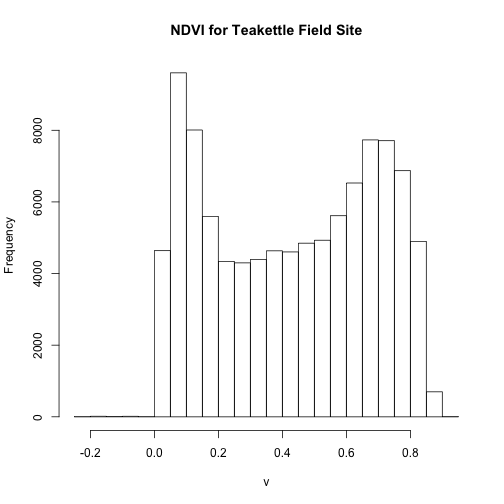
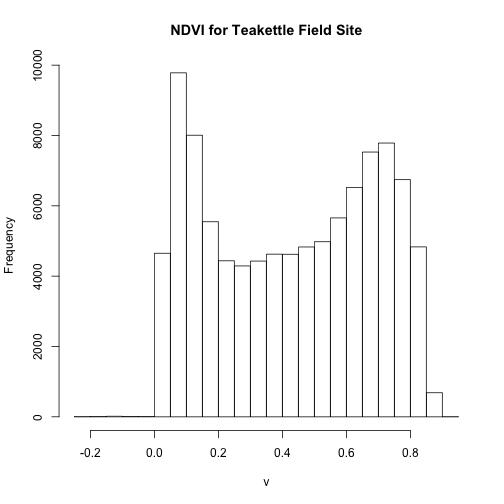
updates to day 2 - tuesday - fixed paths

diff --git a/_posts/institute-materials/day2_tuesday/2016-06-20-mask-raster-lidar-hyperspec-fusion-R.md b/_posts/institute-materials/day2_tuesday/2016-06-20-mask-raster-lidar-hyperspec-fusion-R.md
@@ -7,7 +7,7 @@ instructors: [Leah, Naupaka]
 time:
 contributors:
 dateCreated:  2016-05-01
-lastModified: 2016-05-19
+lastModified: 2016-05-31
 packagesLibraries: [rhdf5]
 categories: [self-paced-tutorial]
 mainTag: institute-day2
@@ -50,7 +50,7 @@ To begin, we will open the NEON LiDAR Digital Surface and Digital Terrain Models
 
     # read LiDAR data
     # dsm = digital surface model == top of canopy
-    teak_nsAspect <- raster("outputs/Teak_nsAspect.tif")
+    teak_nsAspect <- raster("outputs/TEAK/Teak_nsAspect.tif")
     # dtm = digital terrain model = elevation
 
 ## Mask Data
@@ -61,10 +61,8 @@ One application is to use it as an analysis mask for another dataset.
 Let's try to find all pixels that have an NDVI value >.6 and are north facing. 
 
 
-    # w use dave's NDVI layer but for now...
-    
     # Define the file name to be opened
-    f <- "Teakettle/may1_subset/spectrometer/Subset3NIS1_20130614_100459_atmcor.h5"
+    f <- "/NEONdata/D17-California/TEAK/2013/spectrometer/Subset3NIS1_20130614_100459_atmcor.h5"
     
     # define the CRS in EPGS format for the file
     epsg <- 32611
@@ -81,50 +79,39 @@ Let's try to find all pixels that have an NDVI value >.6 and are north facing.
 
     # calculate NDVI
     ndvi <- (ndvi.stack[[2]]-ndvi.stack[[1]]) / (ndvi.stack[[2]]+ndvi.stack[[1]])
-
-    ## Error in eval(expr, envir, enclos): object 'ndvi.stack' not found
-
     names(ndvi) <- "Teak_hsiNDVI"
-
-    ## Error in names(ndvi) <- "Teak_hsiNDVI": object 'ndvi' not found
-
+    
     # let's test this out
     plot(ndvi)
 
-    ## Error in plot(ndvi): error in evaluating the argument 'x' in selecting a method for function 'plot': Error: object 'ndvi' not found
+![ ]({{ site.baseurl }}/images/rfigs/institute-materials/day2_tuesday/mask-raster-lidar-hyperspec-fusion-R/mask-data-1.png)
 
     # let's create a mask
     ndvi[ndvi<.6] <- NA
-
-    ## Error in ndvi[ndvi < 0.6] <- NA: object 'ndvi' not found
-
     plot(ndvi)
 
-    ## Error in plot(ndvi): error in evaluating the argument 'x' in selecting a method for function 'plot': Error: object 'ndvi' not found
+![ ]({{ site.baseurl }}/images/rfigs/institute-materials/day2_tuesday/mask-raster-lidar-hyperspec-fusion-R/mask-data-2.png)
 
     # force the two to have the same CRS
     crs(ndvi) <- crs(asp.ns)
-
-    ## Error in crs(ndvi) <- crs(asp.ns): object 'ndvi' not found
-
     # the two are different extents, crop both
     if(gIntersection(extent(ndvi), extent(asp.ns))){
       print("they overlap")
     }
 
-    ## Error in eval(expr, envir, enclos): could not find function "gIntersection"
+    ## Error in identical(spgeom1@proj4string, spgeom2@proj4string): no slot of name "proj4string" for this object of class "Extent"
 
     # mask out only pixels that are north facing and NDVI >.6
     nFacing.ndvi <- mask(asp.ns,ndvi)
 
-    ## Error in mask(asp.ns, ndvi): error in evaluating the argument 'mask' in selecting a method for function 'mask': Error: object 'ndvi' not found
+    ## Error in compareRaster(x, mask): different extent
 
 ## Export Classified Raster
 
 
     # export geotiff 
     writeRaster(asp.ns,
-                filename="Teakettle/outputs/Teak_nsAspect.tif",
+                filename="outputs/TEAK/Teak_nsAspect.tif",
                 format="GTiff",
                 options="COMPRESS=LZW",
                 overwrite = TRUE,

diff --git a/_posts/institute-materials/day2_tuesday/2016-06-20-mask-raster-R.md b/_posts/institute-materials/day2_tuesday/2016-06-20-mask-raster-R.md
@@ -5,9 +5,9 @@ date:   2016-06-16
 authors: [Leah A. Wasser, Kyla Dahlin]
 instructors: [Leah, Naupaka]
 time: "11:00"
-contributors: []
+contributors:
 dateCreated:  2016-05-01
-lastModified: 2016-05-19
+lastModified: 2016-05-31
 packagesLibraries: [rhdf5]
 categories: [self-paced-tutorial]
 mainTag: institute-day2
@@ -49,7 +49,7 @@ To begin, we will open the NEON LiDAR Digital Surface and Digital Terrain Models
 
 
     # import aspect data from previous lesson
-    teak_nsAspect <- raster("outputs/Teak_nsAspect.tif")
+    teak_nsAspect <- raster("outputs/TEAK/Teak_nsAspect.tif")
     
     # North face = 1
     # South face = 2
@@ -81,7 +81,7 @@ Let's try to find all pixels that have an NDVI value >.6 and are north facing.
 
 
     # open NEON NDVI data
-    ndvi <- raster("NEONdata/TEAK/2013/spectrometer/veg_index/NEON.D17.TEAK.DP2.20130614_100459_NDVI.tif")
+    ndvi <- raster("NEONdata/D17-California/TEAK/2013/spectrometer/veg_index/NEON.D17.TEAK.DP2.20130614_100459_NDVI.tif")
     ndvi
 
     ## class       : RasterLayer 
@@ -89,9 +89,9 @@ Let's try to find all pixels that have an NDVI value >.6 and are north facing.
     ## resolution  : 1, 1  (x, y)
     ## extent      : 325963, 326506, 4102905, 4103482  (xmin, xmax, ymin, ymax)
     ## coord. ref. : +proj=utm +zone=11 +datum=WGS84 +units=m +no_defs +ellps=WGS84 +towgs84=0,0,0 
-    ## data source : /Users/lwasser/Documents/data/1_data-institute-2016/NEONdata/TEAK/2013/spectrometer/veg_index/NEON.D17.TEAK.DP2.20130614_100459_NDVI.tif 
+    ## data source : /Users/lwasser/Documents/data/1_data-institute-2016/NEONdata/D17-California/TEAK/2013/spectrometer/veg_index/NEON.D17.TEAK.DP2.20130614_100459_NDVI.tif 
     ## names       : NEON.D17.TEAK.DP2.20130614_100459_NDVI 
-    ## values      : -0.2380682, 0.920398  (min, max)
+    ## values      : -0.2381, 0.9204  (min, max)
 
     hist(ndvi,
          main="NDVI for Teakettle Field Site")
@@ -126,7 +126,7 @@ Let's try to find all pixels that have an NDVI value >.6 and are north facing.
 
     # export geotiff 
     writeRaster(nFacing.ndvi,
-                filename="Teakettle/outputs/Teak_n_ndvi6.tif",
+                filename="outputs/TEAK/Teak_n_ndvi6.tif",
                 format="GTiff",
                 options="COMPRESS=LZW",
                 overwrite = TRUE,

diff --git a/_posts/institute-materials/day2_tuesday/2016-06-20-classify-raster-threshold-R.md b/_posts/institute-materials/day2_tuesday/2016-06-20-classify-raster-threshold-R.md
@@ -7,7 +7,7 @@ instructors: [Leah, Naupaka]
 time: "10:15"
 contributors:
 dateCreated:  2016-05-01
-lastModified: 2016-05-19
+lastModified: 2016-05-31
 packagesLibraries: [raster]
 categories: [self-paced-tutorial]
 mainTag: institute-day2
@@ -50,12 +50,12 @@ To begin, we will open the NEON LiDAR Digital Surface and Digital Terrain Models
 
     # read LiDAR data
     # dsm = digital surface model == top of canopy
-    dsm <- raster("NEONdata/TEAK/2013/lidar/Teak_lidarDSM.tif")
+    dsm <- raster("NEONdata/D17-California/TEAK/2013/lidar/Teak_lidarDSM.tif")
     # dtm = digital terrain model = elevation
-    dtm <- raster("NEONdata/TEAK/2013/lidar/Teak_lidarDTM.tif") 
+    dtm <- raster("NEONdata/D17-California/TEAK/2013/lidar/Teak_lidarDTM.tif") 
     
     # lets also import the canopy height model (CHM).
-    chm <- raster("NEONdata/TEAK/2013/lidar/Teak_lidarCHM.tif")
+    chm <- raster("NEONdata/D17-California/TEAK/2013/lidar/Teak_lidarCHM.tif")
 
 ## View CHM
 
@@ -91,7 +91,7 @@ using if you have a surface or elevation model as follows:
 
     # (1) calculate aspect of cropped DTM
     # aspect <- terrain(all.data[[3]], opt = "aspect", unit = "degrees", neighbors = 8)
-    aspect <- raster("NEONdata/TEAK/2013/lidar/Teak_lidarAspect.tif")
+    aspect <- raster("NEONdata/D17-California/TEAK/2013/lidar/Teak_lidarAspect.tif")
     
     plot(aspect,
          main="Aspect for Teakettle Field Site",

diff --git a/_posts/institute-materials/day2_tuesday/2016-06-20-create-hillshade-R.md b/_posts/institute-materials/day2_tuesday/2016-06-20-create-hillshade-R.md
@@ -7,7 +7,7 @@ instructors: [Leah, Naupaka]
 time:
 contributors:
 dateCreated:  2016-05-01
-lastModified: 2016-05-19
+lastModified: 2016-05-31
 packagesLibraries: [rhdf5]
 categories: [self-paced-tutorial]
 mainTag: institute-day2
@@ -49,12 +49,12 @@ To begin, we will open the NEON LiDAR Digital Surface and Digital Terrain Models
 
     # read LiDAR data
     # dsm = digital surface model == top of canopy
-    dsm <- raster("NEONdata/TEAK/2013/lidar/Teak_lidarDSM.tif")
+    dsm <- raster("NEONdata/D17-California/TEAK/2013/lidar/Teak_lidarDSM.tif")
     # dtm = digital terrain model = elevation
-    dtm <- raster("NEONdata/TEAK/2013/lidar/Teak_lidarDTM.tif") 
+    dtm <- raster("NEONdata/D17-California/TEAK/2013/lidar/Teak_lidarDTM.tif") 
     
     # lets also import the canopy height model (CHM).
-    chm <- raster("NEONdata/TEAK/2013/lidar/Teak_lidarCHM.tif")
+    chm <- raster("NEONdata/D17-California/TEAK/2013/lidar/Teak_lidarCHM.tif")
 
 
 
@@ -82,7 +82,7 @@ To begin, we will open the NEON LiDAR Digital Surface and Digital Terrain Models
 
     # export geotiff 
     writeRaster(dsm.hill,
-                filename="Teakettle/outputs/Teak_dsm_hill.tif",
+                filename="outputs/TEAK/Teak_dsm_hill.tif",
                 format="GTiff",
                 options="COMPRESS=LZW",
                 overwrite = TRUE,
